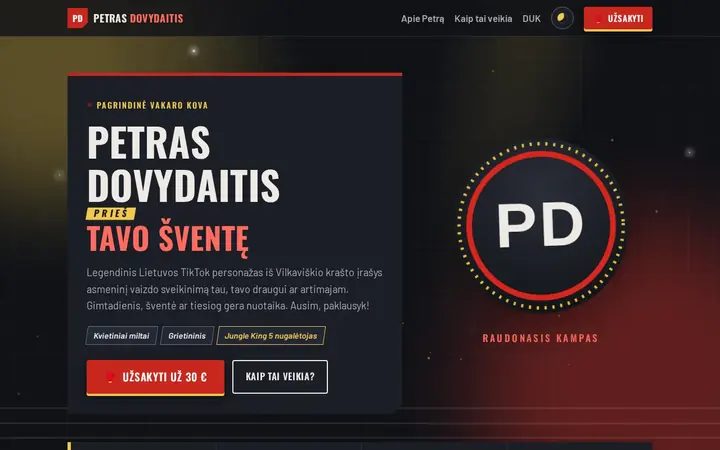
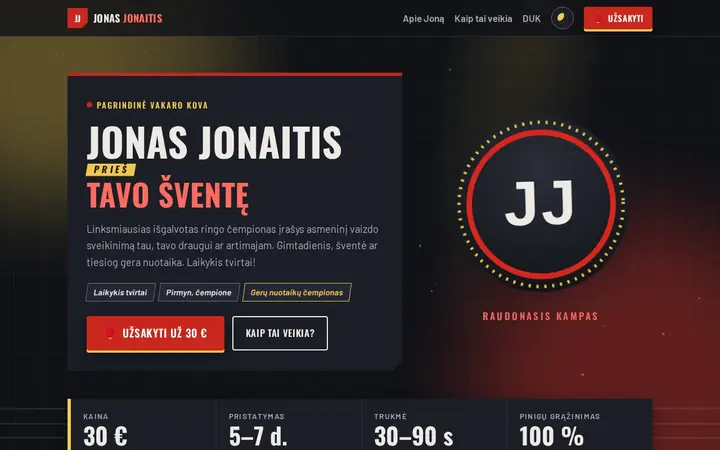
Update the petras-dovydaitis card: new screenshots, Jonas Jonaitis
The repo now uses a made-up character, Jonas Jonaitis, and has new light
and dark screenshots. The card title, alt text and EN/LT descriptions
follow; the repo links stay the same.

Claude-Session: https://claude.ai/code/session_01FNtcNzhsJT5FGoLU72pooj

diff --git a/index.html b/index.html
@@ -763,19 +763,19 @@
 
           <article class="project-card glow-card reveal" data-delay="3">
             <div class="project-media">
-              <img class="shot-light" src="img/projects/petras-dovydaitis.webp" width="720" height="450" loading="lazy" decoding="async" alt="Screenshot of Petras Dovydaitis">
-              <img class="shot-dark" src="img/projects/petras-dovydaitis-dark.webp" width="720" height="450" loading="lazy" decoding="async" alt="Screenshot of Petras Dovydaitis, dark theme">
+              <img class="shot-light" src="img/projects/petras-dovydaitis.webp" width="720" height="450" loading="lazy" decoding="async" alt="Screenshot of Jonas Jonaitis">
+              <img class="shot-dark" src="img/projects/petras-dovydaitis-dark.webp" width="720" height="450" loading="lazy" decoding="async" alt="Screenshot of Jonas Jonaitis, dark theme">
               <span class="project-badge badge-demo">Demo</span>
             </div>
             <div class="project-body">
               <div class="project-head">
-                <h3>Petras Dovydaitis</h3>
+                <h3>Jonas Jonaitis</h3>
                 <button class="lang-switch" type="button" aria-pressed="false" aria-label="Switch language: EN / LT">
                   <span data-l="en">EN</span><span data-l="lt">LT</span>
                 </button>
               </div>
-              <p lang="en">A one-page site for ordering personal video greetings, designed as a fight-night poster with swinging arena spotlights.</p>
-              <p lang="lt">Vieno puslapio svetainė asmeniniams vaizdo sveikinimams užsakyti, sukurta kaip kovos vakaro plakatas su arenos prožektoriais.</p>
+              <p lang="en">A one-page site for ordering video greetings from a made-up ring champion, designed as a fight-night poster with swinging arena spotlights.</p>
+              <p lang="lt">Vieno puslapio svetainė vaizdo sveikinimams iš išgalvoto ringo čempiono užsakyti, sukurta kaip kovos vakaro plakatas su arenos prožektoriais.</p>
               <ul class="tag-list tag-list-sm"><li>Node.js</li><li>SQLite</li><li>JavaScript</li></ul>
               <div class="project-actions">
                 <a class="project-link" href="https://brutall100.github.io/petras-dovydaitis/" target="_blank" rel="noopener noreferrer">
